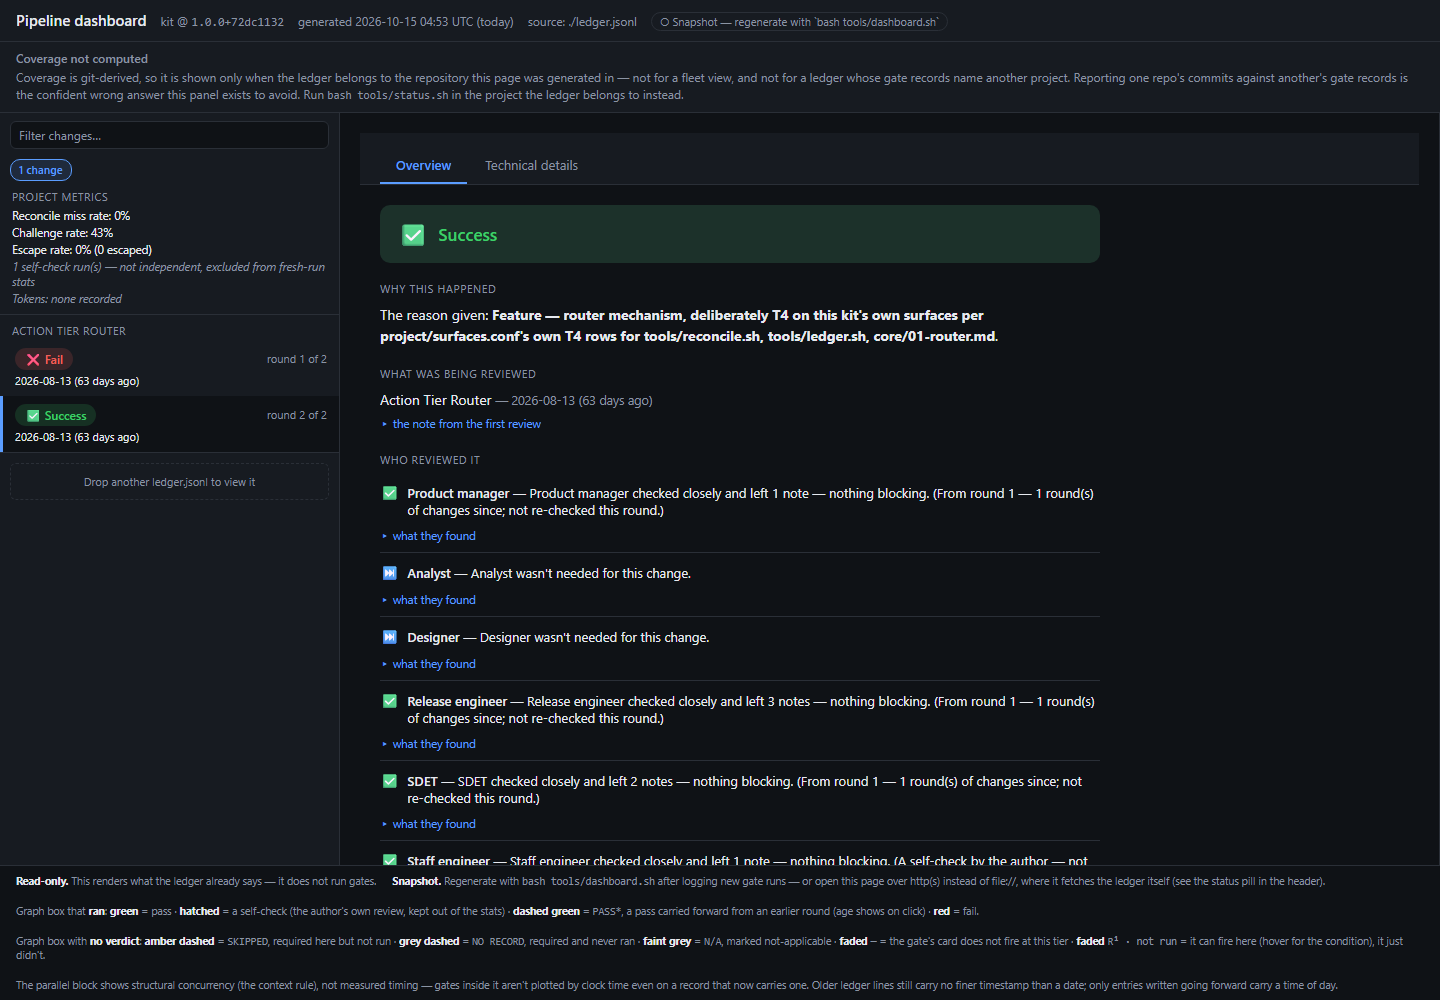
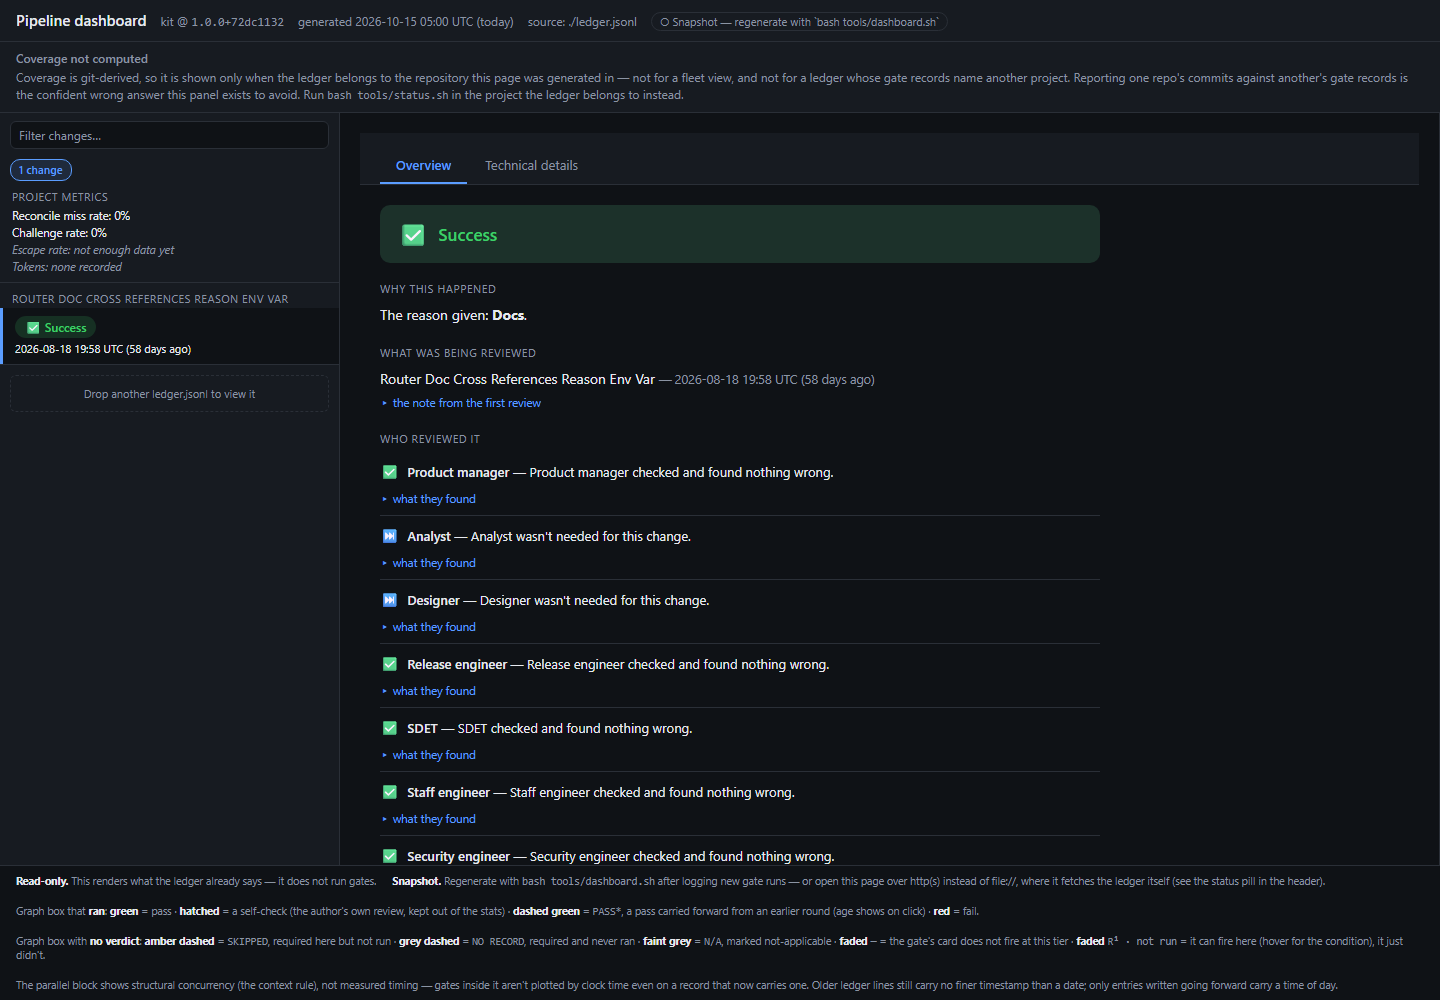
README: a fully passing change and the technical page; Built with it; docs/ in the install cleanup
The dashboard capture is now a T4 change where every mandated reviewer passed at round 1, plus a capture of the technical (gate graph) page. README names the public project built with the pipeline and notes eight private ones, per the author. Fixes the install cleanup list: docs/ was in the test but not in the README's rm line (readme_cleanup was failing in the previous commit).

Filtered tests (readme): 19 passed, 0 failed.

diff --git a/README.md b/README.md
@@ -57,11 +57,32 @@ authentication or a migration cannot reach release without a security review on 
 
 ![Which gates each tier requires](docs/images/tiers-gates.svg)
 
-**The dashboard** is a single HTML file generated from the ledger: open it by double-click, no
-server. This is one real change from this repo's own ledger: it failed at round 1, was fixed,
-and passed at round 2, with each reviewer's verdict.
+**The dashboard** is a single HTML file generated from the ledger: open it by double-click,
+no server. This is a real change from this repo's own ledger: a trust-boundary (T4) change that
+every mandated reviewer passed at round 1.
 
-![The dashboard for one change: a failed first round, then a pass](docs/images/dashboard.png)
+![The dashboard overview for one change: every reviewer passed at round 1](docs/images/dashboard.png)
+
+**The technical page** shows the same change as a graph. It starts at triage, runs the gates
+the tier requires (green is a recorded pass, grey is "not required at this tier"), and each
+box is backed by a line in the ledger, not by anyone's say-so.
+
+![The technical details page: the gate graph for the same change, all required gates passed](docs/images/dashboard-technical.png)
+
+A change that fails shows up red, and stays red until a later pass is recorded against it, so
+the dashboard cannot be tidied into looking healthier than the ledger.
+
+### Built with it
+
+- **[Focus Guard — Website Blocker](https://chromewebstore.google.com/detail/focus-guard-%E2%80%94-website-blo/blbbadphbklfpllimmcnhjcacdicmnge)**,
+  a public Chrome extension on the Chrome Web Store, was built with this pipeline, per the author.
+- **Eight other projects, all private**, were built with it as well, per the author. Their
+  ledgers are not part of this repository, so the numbers on this page are from this kit's own
+  ledger only.
+
+The extension is a public result you can inspect. The review records behind it are not
+published here, so treat it as a worked example of the kind of project this suits, not as
+evidence of the effect. [What the numbers can and cannot show](docs/evidence.md).
 
 **The gates found real problems** while this kit was being built with itself. It does not show
 what would have escaped without them; read [the limits](docs/evidence.md) before quoting it.
@@ -198,7 +219,7 @@ cp -r gated-change/ your-project/.pipeline/
 cd your-project/.pipeline
 rm -rf .git ledger.jsonl dashboard.html security-reports project \
        SESSION-HANDOFF.md INTENT-LOG.md LEARNINGS.md ACTION-PLAN.md dist releases tests experiments \
-       specs .claude .github
+       specs docs .claude .github
 cd ..
 ```
 
